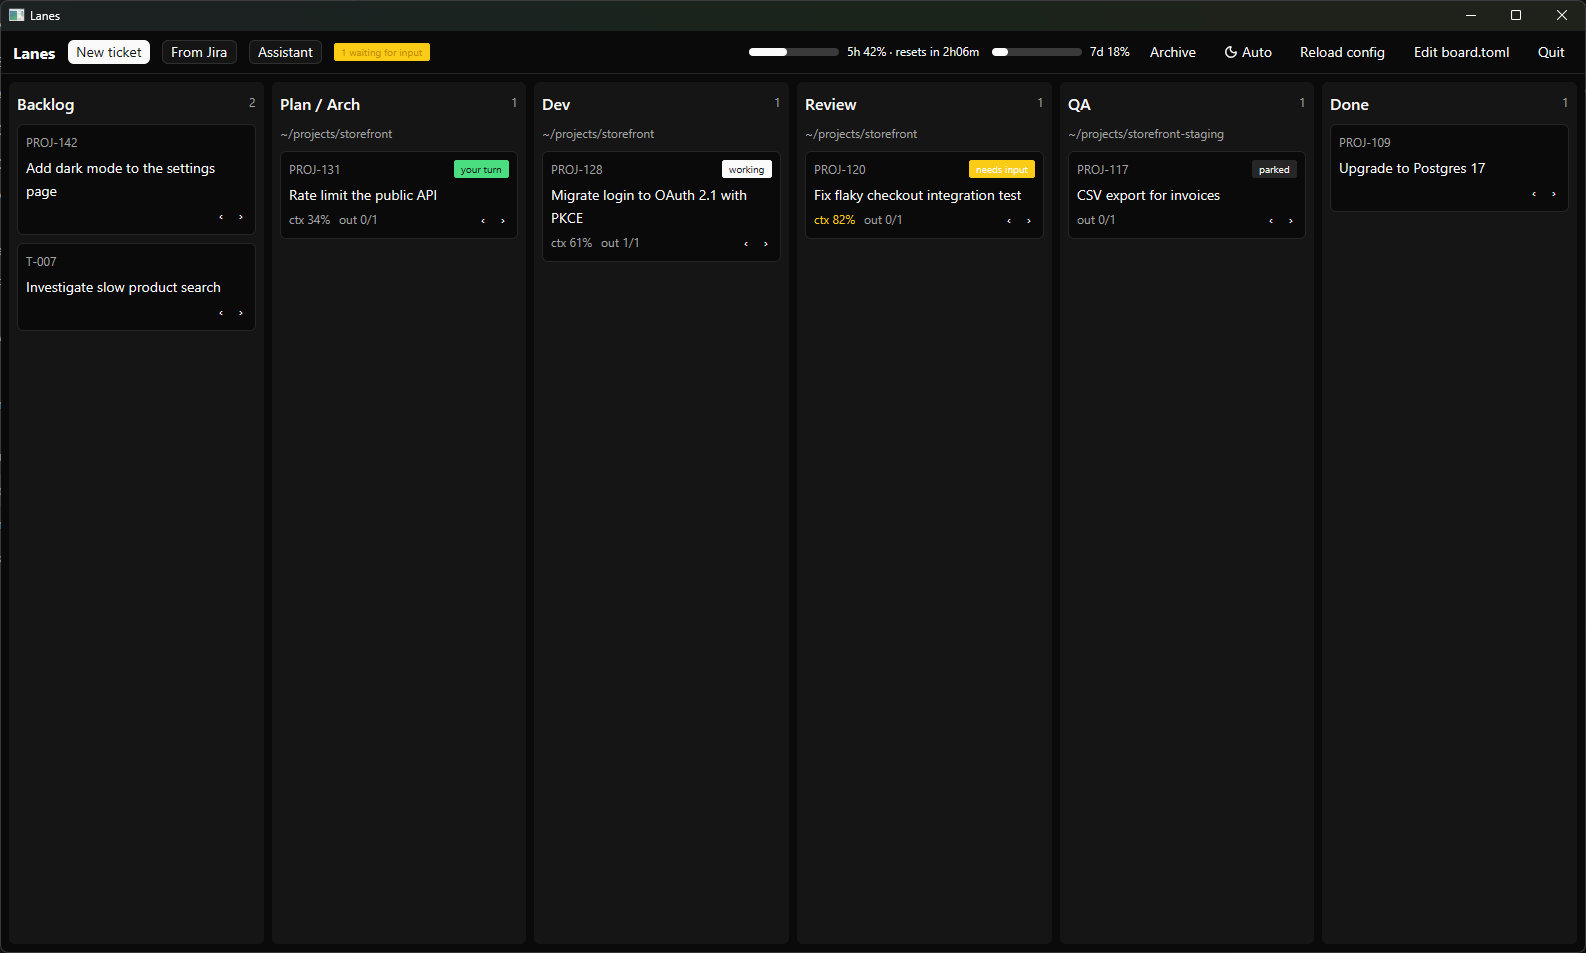
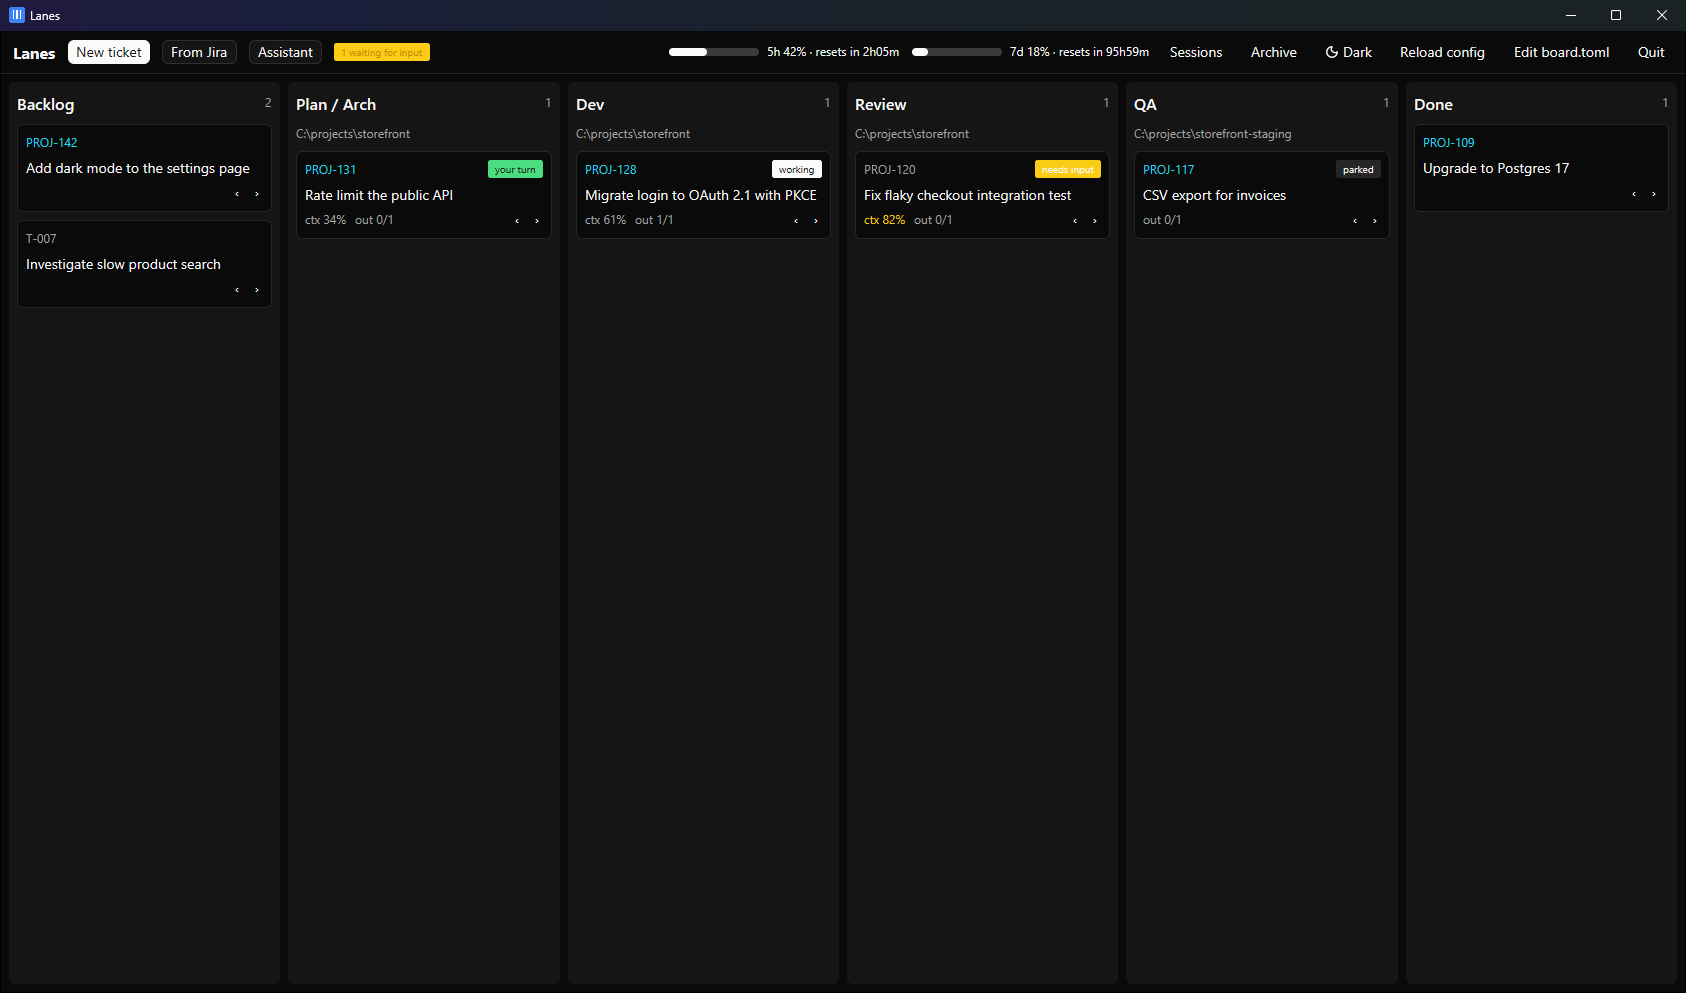
Refresh README screenshots and fill gaps for new users
Retake the board and ticket-panel screenshots with demo data, add the
Artifacts tab, and note the early status, optional gh, the SmartScreen
warning, and the handoff, suspend and resizable-panel controls.

diff --git a/README.md b/README.md
@@ -30,7 +30,7 @@ Lanes is a task manager, not an autopilot. You decide when a ticket moves. Every
 
 ## Features
 
-- **One session per ticket per stage.** Each column has its own prompt template, working directory, model and permission mode. Sessions resume by ID when a ticket comes back.
+- **One session per ticket per stage.** Each column has its own prompt template, working directory, model and permission mode. Sessions resume by ID when a ticket comes back. **Request handoff** asks a running session to write its stage outputs, and **Suspend** stops it so you can resume it later.
 - **Explicit hand-offs.** Columns declare the artifacts they `consume` and `produce`: a markdown file or a short piece of text. Each new session gets the ticket brief and its inputs as context and waits for your first message (or starts straight away with `start = "prompt"`). Lanes warns you if you move a ticket on before its outputs exist.
 - **Artifacts tab.** A stage's inputs and outputs, who wrote each one and when, markdown rendering, inline editing of text artifacts, clickable PR links and repo folders, and PR state and CI results via `gh` (with a card badge like "2 PRs · 1 failing").
 - **Embedded terminal.** Each `claude` session runs in a GPU-rendered terminal backed by ConPTY and `alacritty_terminal`, with selection, scrollback and bracketed paste. If you'd rather use Windows Terminal tabs, set `terminal = "external"`.
@@ -38,6 +38,7 @@ Lanes is a task manager, not an autopilot. You decide when a ticket moves. Every
 - **Board assistant.** A dedicated Claude session that can operate the board for you: create and move tickets, add a column, rewrite a stage's prompt. Config changes hot-reload.
 - **Jira import.** Turn issue keys, or your open issues, into tickets. The issue key appears as a link on the board card, the ticket panel links to the issue, and the link is passed to Claude. No API token is needed if the board assistant has Jira tools (e.g. an Atlassian MCP server).
 - **Editable tickets.** The ticket panel shows the full description, scrolling when it's long, with **Edit description** to change it in place.
+- **Resizable ticket panel.** Drag the divider, or switch between a wide and a narrow panel.
 - **Timeline and transcripts.** See a ticket's moves, sessions, artifact writes and actions, and read any stage's conversation without reviving it.
 - **Flexible working folders.** A column's folder can be a template, e.g. one git worktree per ticket. Any ticket can override it for all stages or just one.
 - **Action buttons.** Templated one-click commands per column or board-wide, such as "Open in VS Code" or "create worktree".
@@ -48,28 +49,37 @@ Lanes is a task manager, not an autopilot. You decide when a ticket moves. Every
 
 <table>
   <tr>
-    <td><img src="docs/images/ticket-timeline.png" alt="Ticket panel with the Jira link, artifacts and the timeline of moves and sessions"></td>
-    <td><img src="docs/images/ticket-transcript.png" alt="Ticket panel in light mode reading the Dev stage's Claude transcript"></td>
+    <td><img src="docs/images/ticket-artifacts.png" alt="Ticket panel's Artifacts tab showing the Dev stage's rendered plan input and its optional inputs"></td>
+    <td><img src="docs/images/ticket-timeline.png" alt="Ticket panel with the Jira link, actions and the timeline of moves, sessions and artifact writes"></td>
   </tr>
   <tr>
-    <td align="center"><sub>Ticket panel: artifacts, actions and timeline</sub></td>
-    <td align="center"><sub>Reading a stage's transcript (light theme)</sub></td>
+    <td align="center"><sub>Artifacts tab: a stage's inputs and outputs</sub></td>
+    <td align="center"><sub>Ticket panel: actions and timeline</sub></td>
+  </tr>
+  <tr>
+    <td colspan="2"><img src="docs/images/ticket-transcript.png" alt="Ticket panel in light mode reading the Dev stage's Claude transcript"></td>
+  </tr>
+  <tr>
+    <td colspan="2" align="center"><sub>Reading a stage's transcript (light theme)</sub></td>
   </tr>
 </table>
 
 ## Quick start
 
+> **Status: early (0.x).** Lanes is used daily on Windows by its author, but the board format and features may still change between releases. See [ROADMAP.md](ROADMAP.md) for what's planned.
+
 ### Requirements
 
 - **Windows 10 or 11.** Lanes is developed and tested on Windows. macOS and Linux are untested; see [Platform support](#platform-support).
 - **[Claude Code](https://docs.claude.com/en/docs/claude-code)**, installed and logged in. Run `claude`, then `/login`, once in a normal terminal.
+- **Optional:** the [GitHub CLI](https://cli.github.com) (`gh`), logged in, for pull request state and CI results on PR links.
 - **Building from source** additionally needs:
   - [Rust](https://rustup.rs) (stable, MSVC toolchain);
   - the Visual Studio C++ build tools with a Windows 10/11 SDK (the "Desktop development with C++" workload).
 
 ### Download or build
 
-Download `lanes.exe` from the [latest release](https://github.com/kyle-at-bunny/lanes/releases/latest) and run it, or build it yourself:
+Download `lanes.exe` from the [latest release](https://github.com/kyle-at-bunny/lanes/releases/latest) and run it. It isn't code-signed, so Windows SmartScreen may warn the first time; choose **More info → Run anyway**. Or build it yourself:
 
 ```powershell
 git clone https://github.com/kyle-at-bunny/lanes.git
